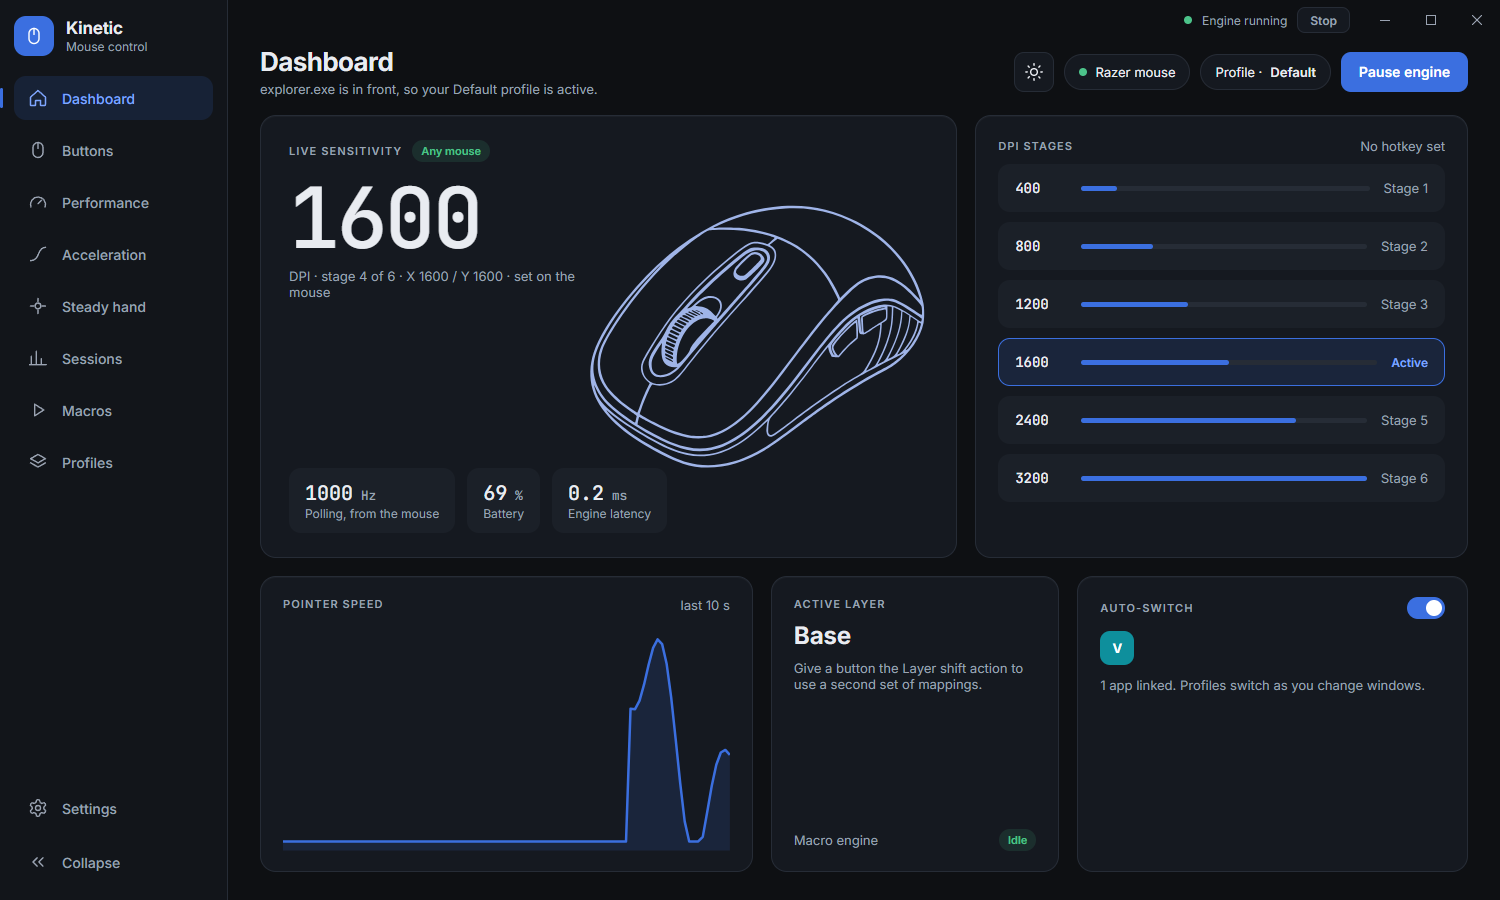
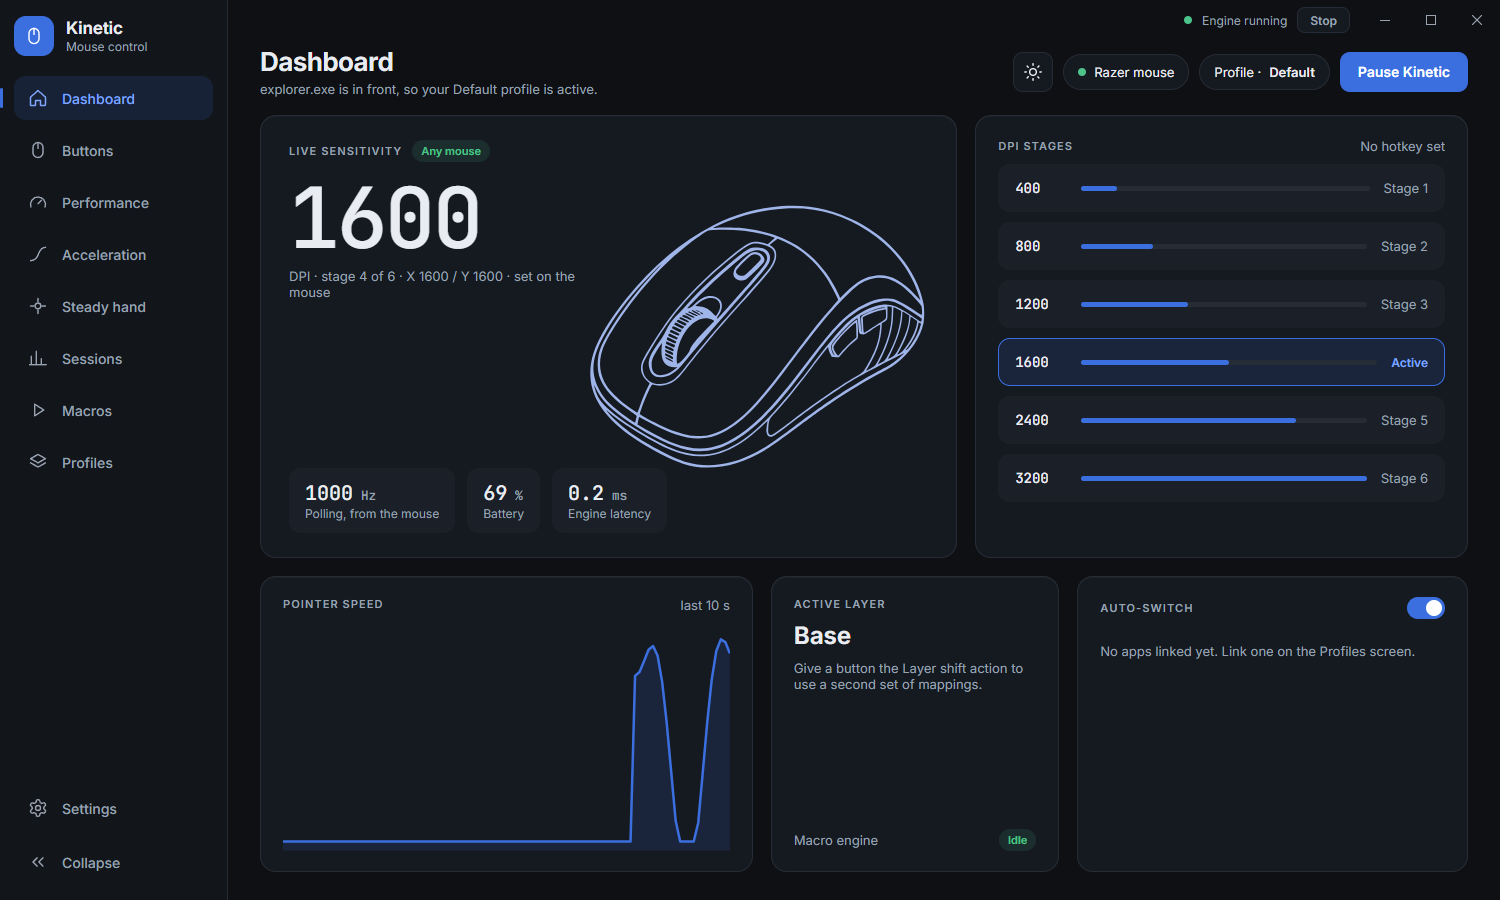
Dashboard: no second engine status; Pause Kinetic only while the engine runs

diff --git a/app/src/screens/Dashboard.tsx b/app/src/screens/Dashboard.tsx
@@ -46,13 +46,12 @@ export function DashboardScreen({ engine }: { engine: EngineState }) {
             : `Your ${active.name} profile is active.`
         }
       >
-        <Pill tone={engine.connected ? "ok" : "warn"}>
-          {engine.connected ? deviceLabel(device) : "Engine not running"}
-        </Pill>
+        {/* The title bar already says whether the engine runs, so these two only show while it does. */}
+        {engine.connected && <Pill tone="ok">{deviceLabel(device)}</Pill>}
         <span className="pill">Profile · <b style={{ fontWeight: 600 }}>{active.name}</b></span>
-        <button className="btn" type="button" title={engine.asideReason === "blocked" ? "Windows or another program is blocking the input Kinetic sends. It retries in a few seconds or when you switch windows." : engine.game ? "A game with anti-cheat is in front. Kinetic stays out of its way." : undefined} disabled={!engine.connected || engine.game} onClick={() => engine.setPaused(!engine.paused)}>
-          {engine.game ? (engine.asideReason === "blocked" ? "Paused: input blocked" : "Paused for a game") : engine.paused ? "Resume engine" : "Pause engine"}
-        </button>
+        {engine.connected && <button className="btn" type="button" title={engine.asideReason === "blocked" ? "Windows or another program is blocking the input Kinetic sends. It retries in a few seconds or when you switch windows." : engine.game ? "A game with anti-cheat is in front. Kinetic stays out of its way." : engine.paused ? "Kinetic is paused: your mouse works as if Kinetic were off. The engine keeps running." : "Pauses everything Kinetic does to your mouse. The engine keeps running; use Stop in the title bar to stop it."} disabled={engine.game} onClick={() => engine.setPaused(!engine.paused)}>
+          {engine.game ? (engine.asideReason === "blocked" ? "Paused: input blocked" : "Paused for a game") : engine.paused ? "Resume Kinetic" : "Pause Kinetic"}
+        </button>}
       </Top>
 
       <div className="grid12" style={{ gridTemplateRows: "minmax(0,1.5fr) minmax(0,1fr)" }}>

diff --git a/README.md b/README.md
@@ -107,7 +107,7 @@ A live view of your mouse: the current DPI and stage, polling rate, battery (whe
 ![Dashboard (light)](docs/screenshots/dashboard-light.png)
 
 - Click a DPI stage on the right to switch to it. The auto-switch card shows how many apps are linked to profiles.
-- **Pause engine** turns off everything Kinetic's engine does to input until you press it again. In kernel mode it also sets the driver back to neutral.
+- **Pause Kinetic** (shown while the engine runs) turns off everything Kinetic does to your mouse until you press **Resume Kinetic**, and in kernel mode sets the driver back to neutral. The engine keeps running. It is different from **Stop** in the title bar, which stops the engine altogether. The button reads **Paused for a game** or **Paused: input blocked** when Kinetic has stepped aside by itself.
 - The button changes to **Paused for a game** when a protected game is in front, or **Paused: input blocked** when Windows is refusing the input Kinetic sends. Both clear on their own (see [Games and anti-cheat](#games-and-anti-cheat)).
 
 ### Buttons
